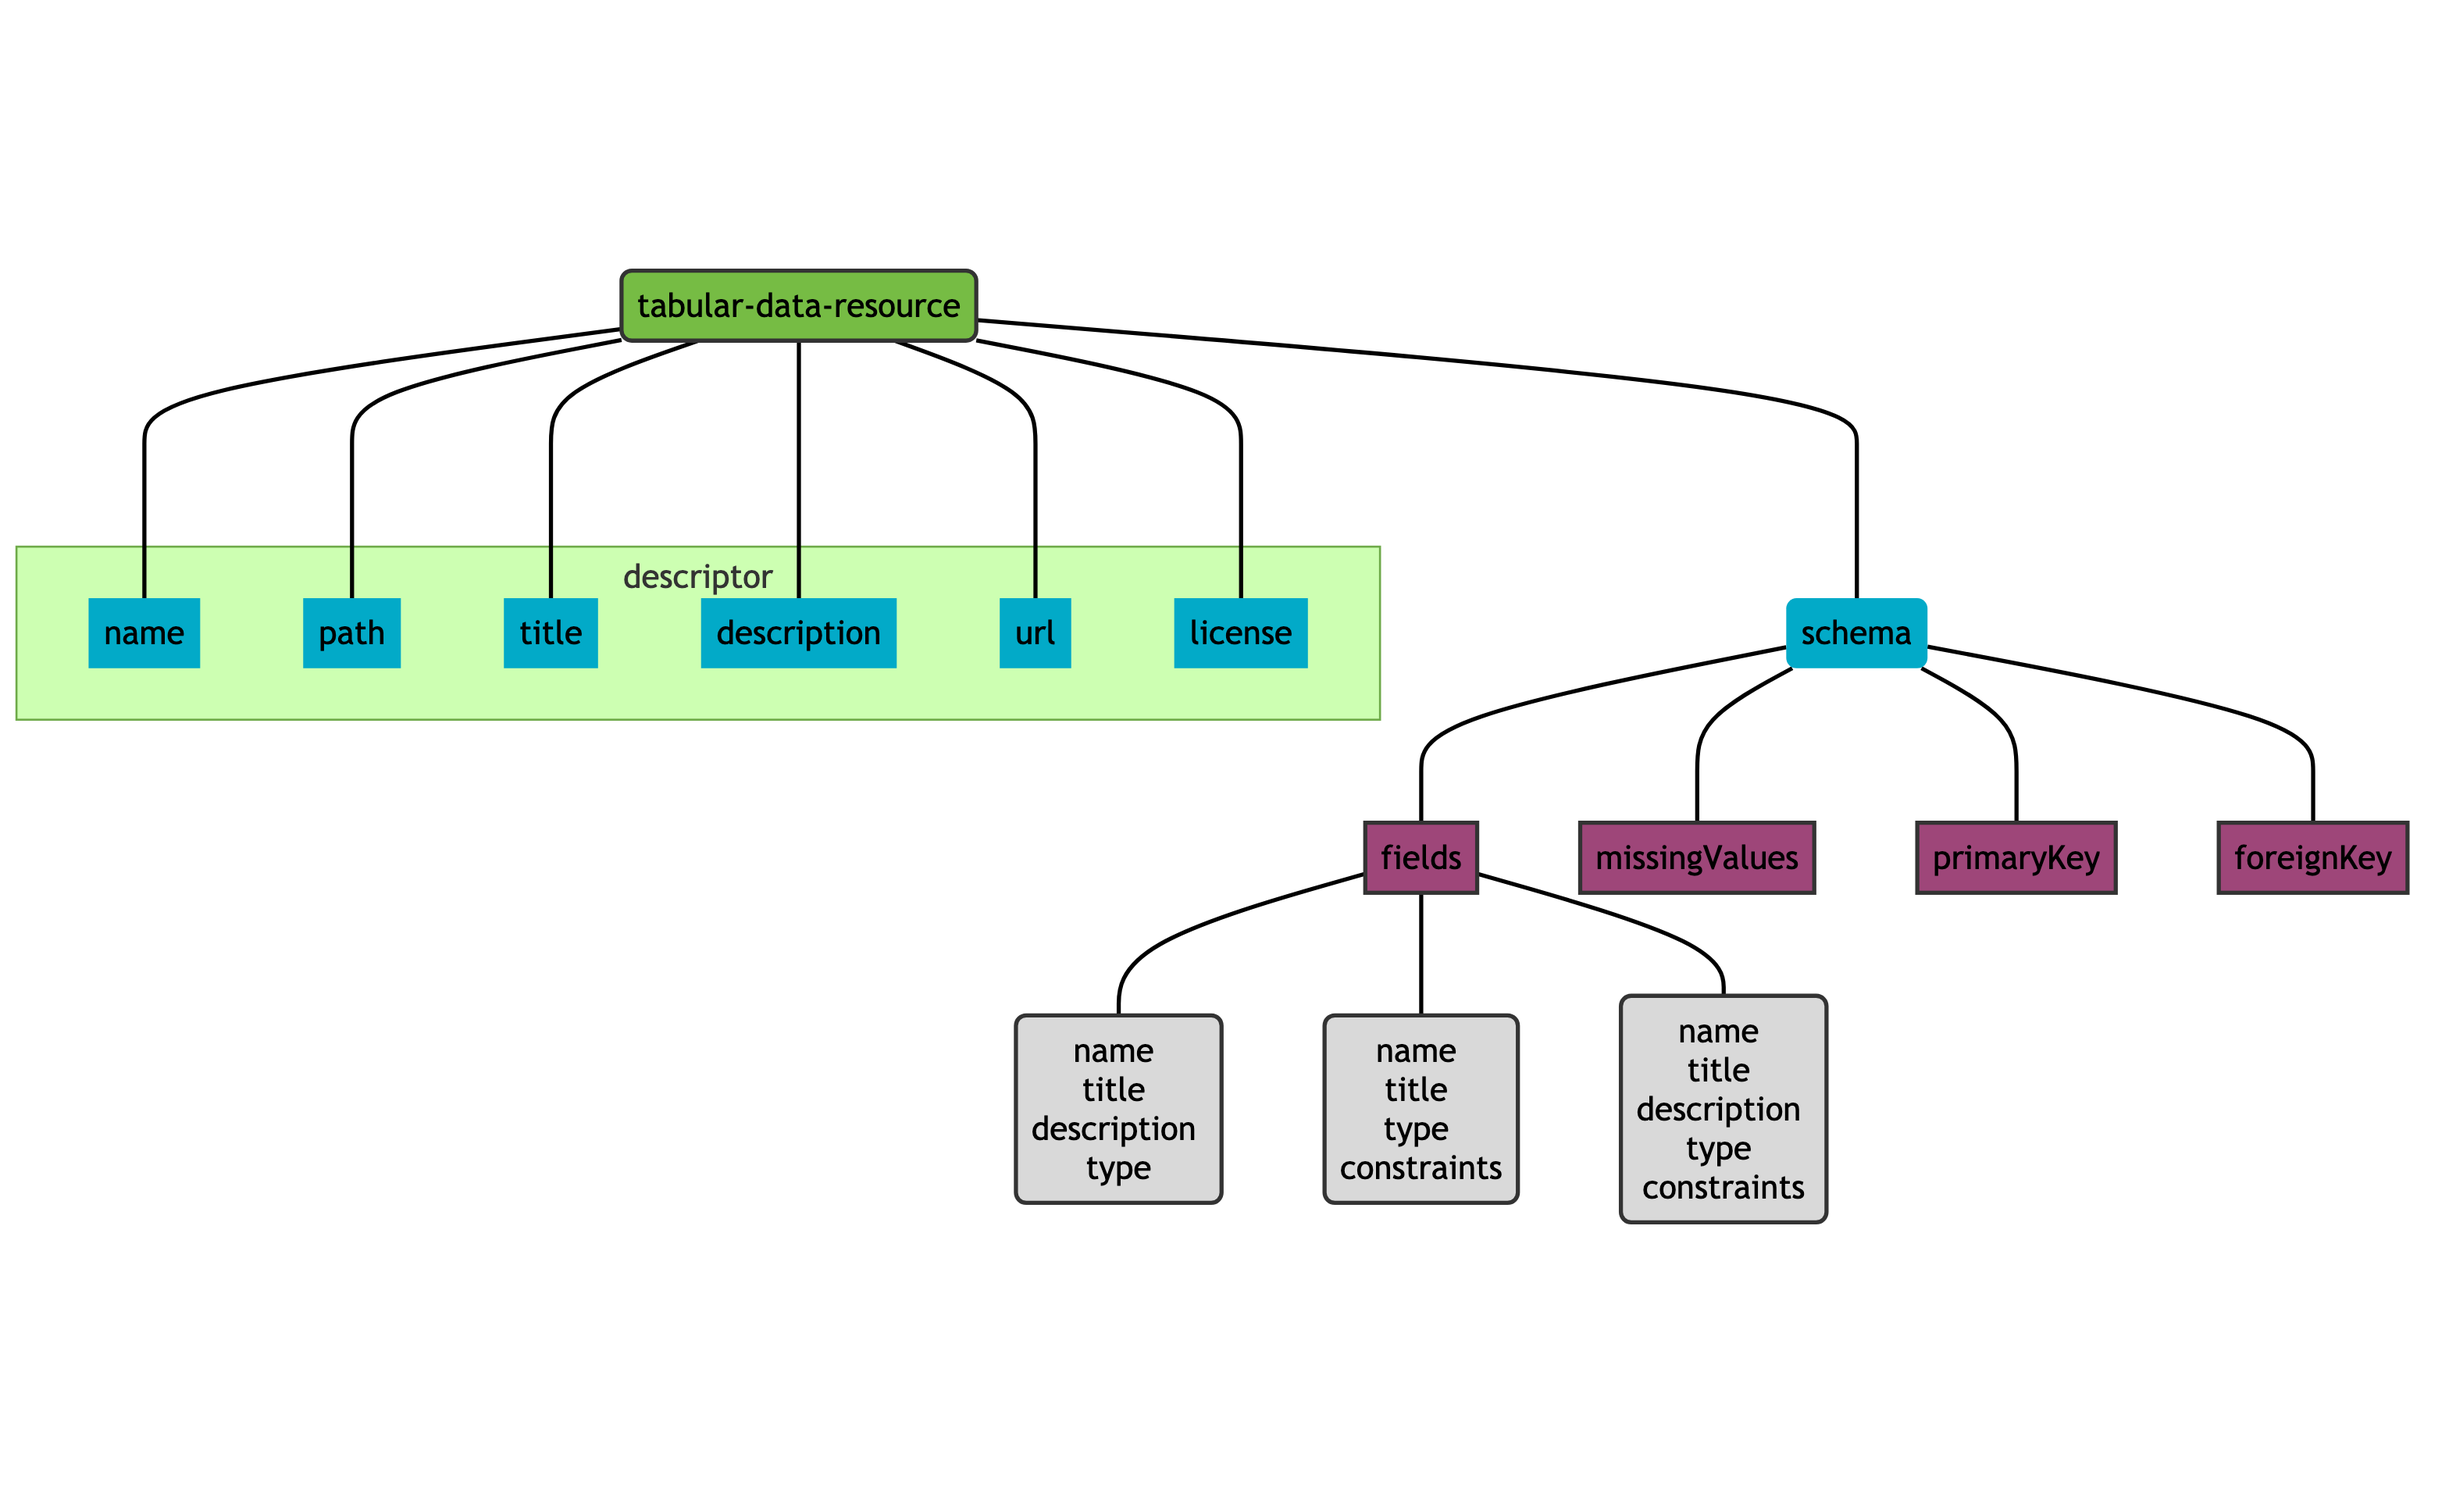
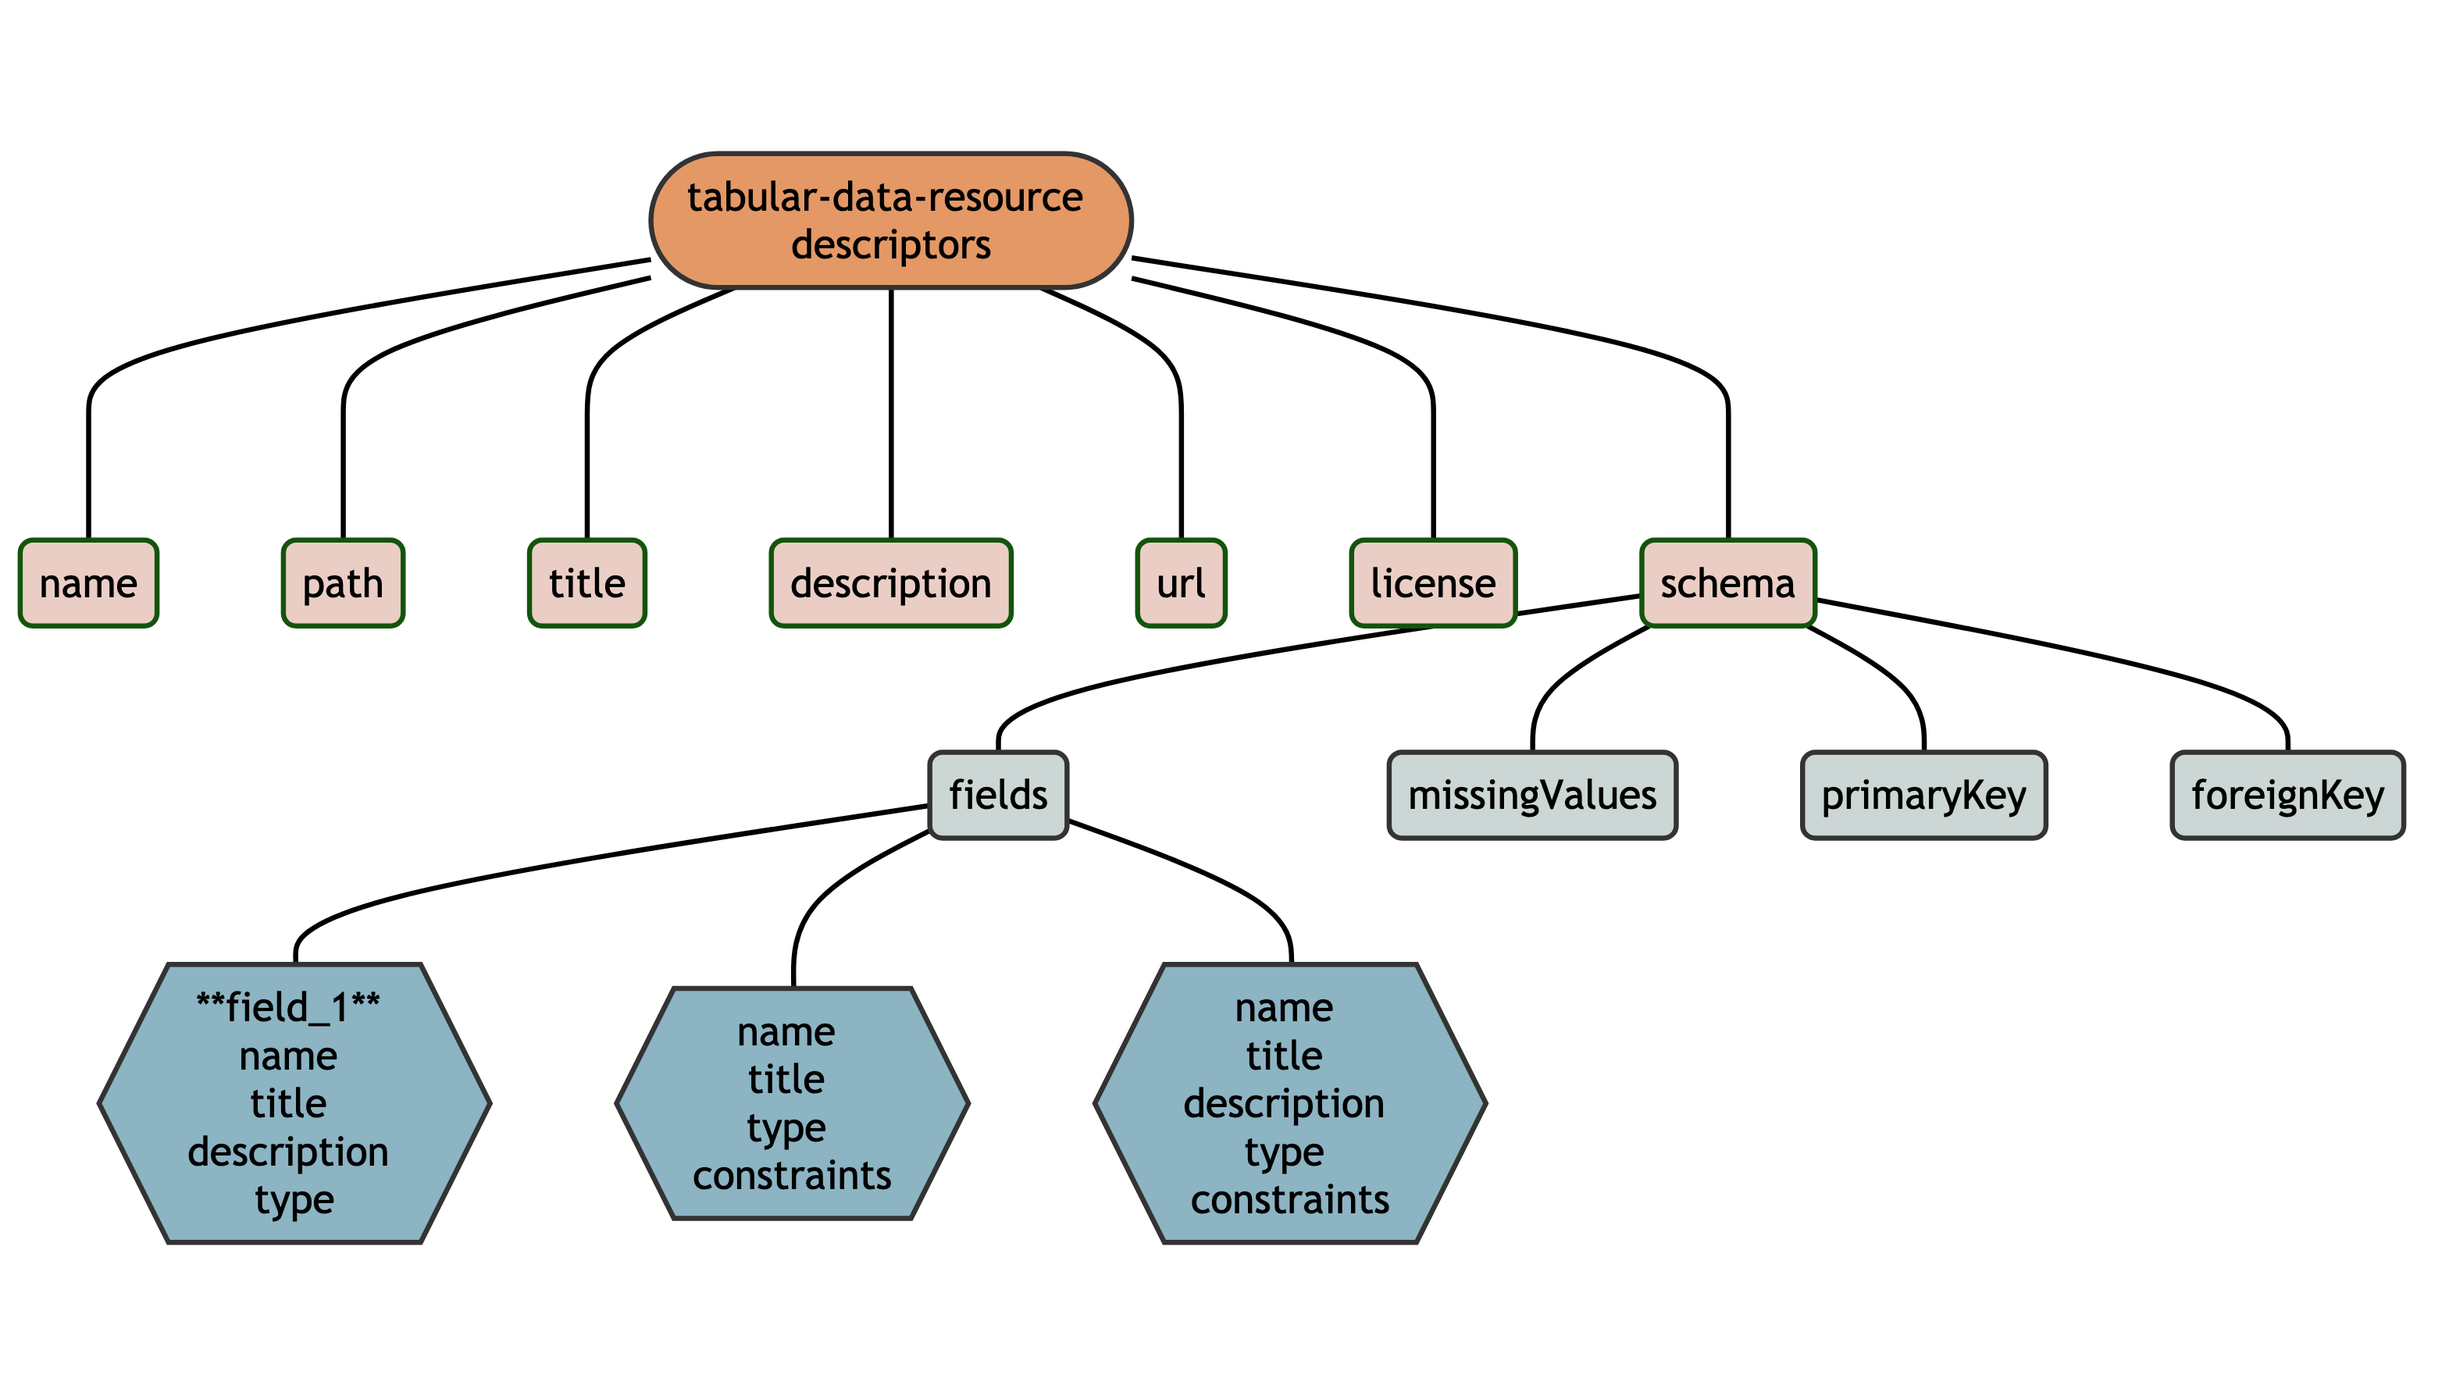
Deploying to gh-pages from @ geomarker-io/CODECtools@e1c4fbc0bae96f224f96489d89b5325a5e7f9950 🚀

diff --git a/articles/codec-metadata.html b/articles/codec-metadata.html
@@ -120,30 +120,11 @@
 <div class="section level3">
 <h3 id="tabular-data-resource-metadata">Tabular-Data-Resource Metadata<a class="anchor" aria-label="anchor" href="#tabular-data-resource-metadata"></a>
 </h3>
-<p>Within the context of CODEC, tabular-data-resouce metadata consists of <strong>descriptors</strong>, <strong>schema</strong>, and <strong>fields</strong>:</p>
+<p>A <strong>descriptor</strong> (or <a href="https://specs.frictionlessdata.io/data-resource/#metadata-properties" class="external-link">“metadata property”</a>) is a named value used to describe the data resource. The value of most <em>descriptors</em> are a single character string (e.g., <code>name = "my_data_set"</code>, <code>path = "my_data_set.csv"</code>).</p>
+<p><strong>schema</strong> (or <a href="https://specs.frictionlessdata.io/table-schema/" class="external-link">“table schema”</a>) is a special <em>descriptor</em> that stores information about the <strong>fields</strong> (or columns) within a tabular-data-resource. <em>schema</em> includes a list of <em>descriptors</em> for each <em>field</em> as well as the value used to denote missingness and which <em>fields</em> are primary or foreign keys.</p>
+<p>A tabular-data-resource (with all possible <em>descriptors</em>, <em>schema</em>, and <em>fields</em>) is hierarchically organized and can be represented in the attributes of an R tibble <em>or</em> in YAML.</p>
 <p><img src="codec_metadata.png"></p>
-<ul>
-<li>a <strong>descriptor</strong> (or <a href="https://specs.frictionlessdata.io/data-resource/#metadata-properties" class="external-link">“metadata property”</a>) is a named value stored as a string used to describe the data resource</li>
-<li>the <strong>schema</strong> (or <a href="https://specs.frictionlessdata.io/table-schema/" class="external-link">“table schema”</a>) contains information about each of the <strong>fields</strong> (or “columns”) within a tabular-data-resource
-<ul>
-<li>
-<strong>schema</strong> may optionally contain the value used to denote missingness and which fields are foreign or primary keys</li>
-</ul>
-</li>
-</ul>
-<p>The names of any <strong>descriptor</strong> <strong>schema</strong> and <strong>field</strong> values MUST be one of:</p>
-<div class="sourceCode" id="cb1"><pre class="downlit sourceCode r">
-<code class="sourceCode R"><span><span class="fu">CODECtools</span><span class="fu">::</span><span class="fu"><a href="../reference/codec_names.html">codec_names</a></span><span class="op">(</span><span class="op">)</span></span></code></pre></div>
-<pre><code><span><span class="co">## $descriptor</span></span>
-<span><span class="co">## [1] "name"        "path"        "title"       "description" "url"        </span></span>
-<span><span class="co">## [6] "license"     "schema"     </span></span>
-<span><span class="co">## </span></span>
-<span><span class="co">## $schema</span></span>
-<span><span class="co">## [1] "fields"        "missingValues" "primaryKey"    "foreignKey"   </span></span>
-<span><span class="co">## </span></span>
-<span><span class="co">## $fields</span></span>
-<span><span class="co">## [1] "name"        "title"       "description" "type"        "constraints"</span></span></code></pre>
-<p>A CODEC <code>tdr</code> MUST contain <code>name</code> and <code>path</code> descriptors. All other descriptors, schema, and fields MAY be present.</p>
+<p>A CODEC tabular-data-resource MUST contain <code>name</code> and <code>path</code> descriptors. All other descriptors, schema, and fields MAY be present, but MUST be one of:</p>
 <div class="section level4">
 <h4 id="descriptor">descriptor<a class="anchor" aria-label="anchor" href="#descriptor"></a>
 </h4>
@@ -194,6 +175,18 @@
 <li>
 <code>constraints</code>: <a href="https://specs.frictionlessdata.io/table-schema/#constraints" class="external-link">Frictionless constraints</a>, including <code>enum</code>, an array of possible values or factor levels</li>
 </ul>
+<p>Valid names for descriptors, schema, and metadata can be found within CODECtools in R by using:</p>
+<div class="sourceCode" id="cb1"><pre class="downlit sourceCode r">
+<code class="sourceCode R"><span><span class="fu">CODECtools</span><span class="fu">::</span><span class="fu"><a href="../reference/codec_names.html">codec_names</a></span><span class="op">(</span><span class="op">)</span></span></code></pre></div>
+<pre><code><span><span class="co">## $descriptor</span></span>
+<span><span class="co">## [1] "name"        "path"        "title"       "description" "url"        </span></span>
+<span><span class="co">## [6] "license"     "schema"     </span></span>
+<span><span class="co">## </span></span>
+<span><span class="co">## $schema</span></span>
+<span><span class="co">## [1] "fields"        "missingValues" "primaryKey"    "foreignKey"   </span></span>
+<span><span class="co">## </span></span>
+<span><span class="co">## $fields</span></span>
+<span><span class="co">## [1] "name"        "title"       "description" "type"        "constraints"</span></span></code></pre>
 </div>
 </div>
 </div>

diff --git a/articles/codec-data.html b/articles/codec-data.html
@@ -94,8 +94,14 @@
 └── tabular-data-resource.yaml</code></pre>
 <p>The metadata file MUST be a valid YAML file named <code>tabular-data-resource.yaml</code>.</p>
 <p>The name of the directory and the name of the CSV file containing the data MUST match the <code>name</code> <a href="codec-metadata.html#descriptor"><em>descriptor</em></a> in the <a href="codec-metadata.html#codec-metadata-specifications">metadata</a>.</p>
-<p>For both files,<br>
-- the file encoding MUST be UTF-8 - newlines MUST be encoded with either <code>\n</code> or <code>\r\n</code> - the newline style SHOULD be consistent within a file - there SHOULD be a newline at the end of the file</p>
+<p>For both files,</p>
+<ul>
+<li>the file encoding MUST be UTF-8</li>
+<li>newlines MUST be encoded with either <code>\n</code> or <code>\r\n</code>
+</li>
+<li>the newline style SHOULD be consistent within a file</li>
+<li>there SHOULD be a newline at the end of the file</li>
+</ul>
 </div>
 <div class="section level3">
 <h3 id="missing-values">Missing Values<a class="anchor" aria-label="anchor" href="#missing-values"></a>
